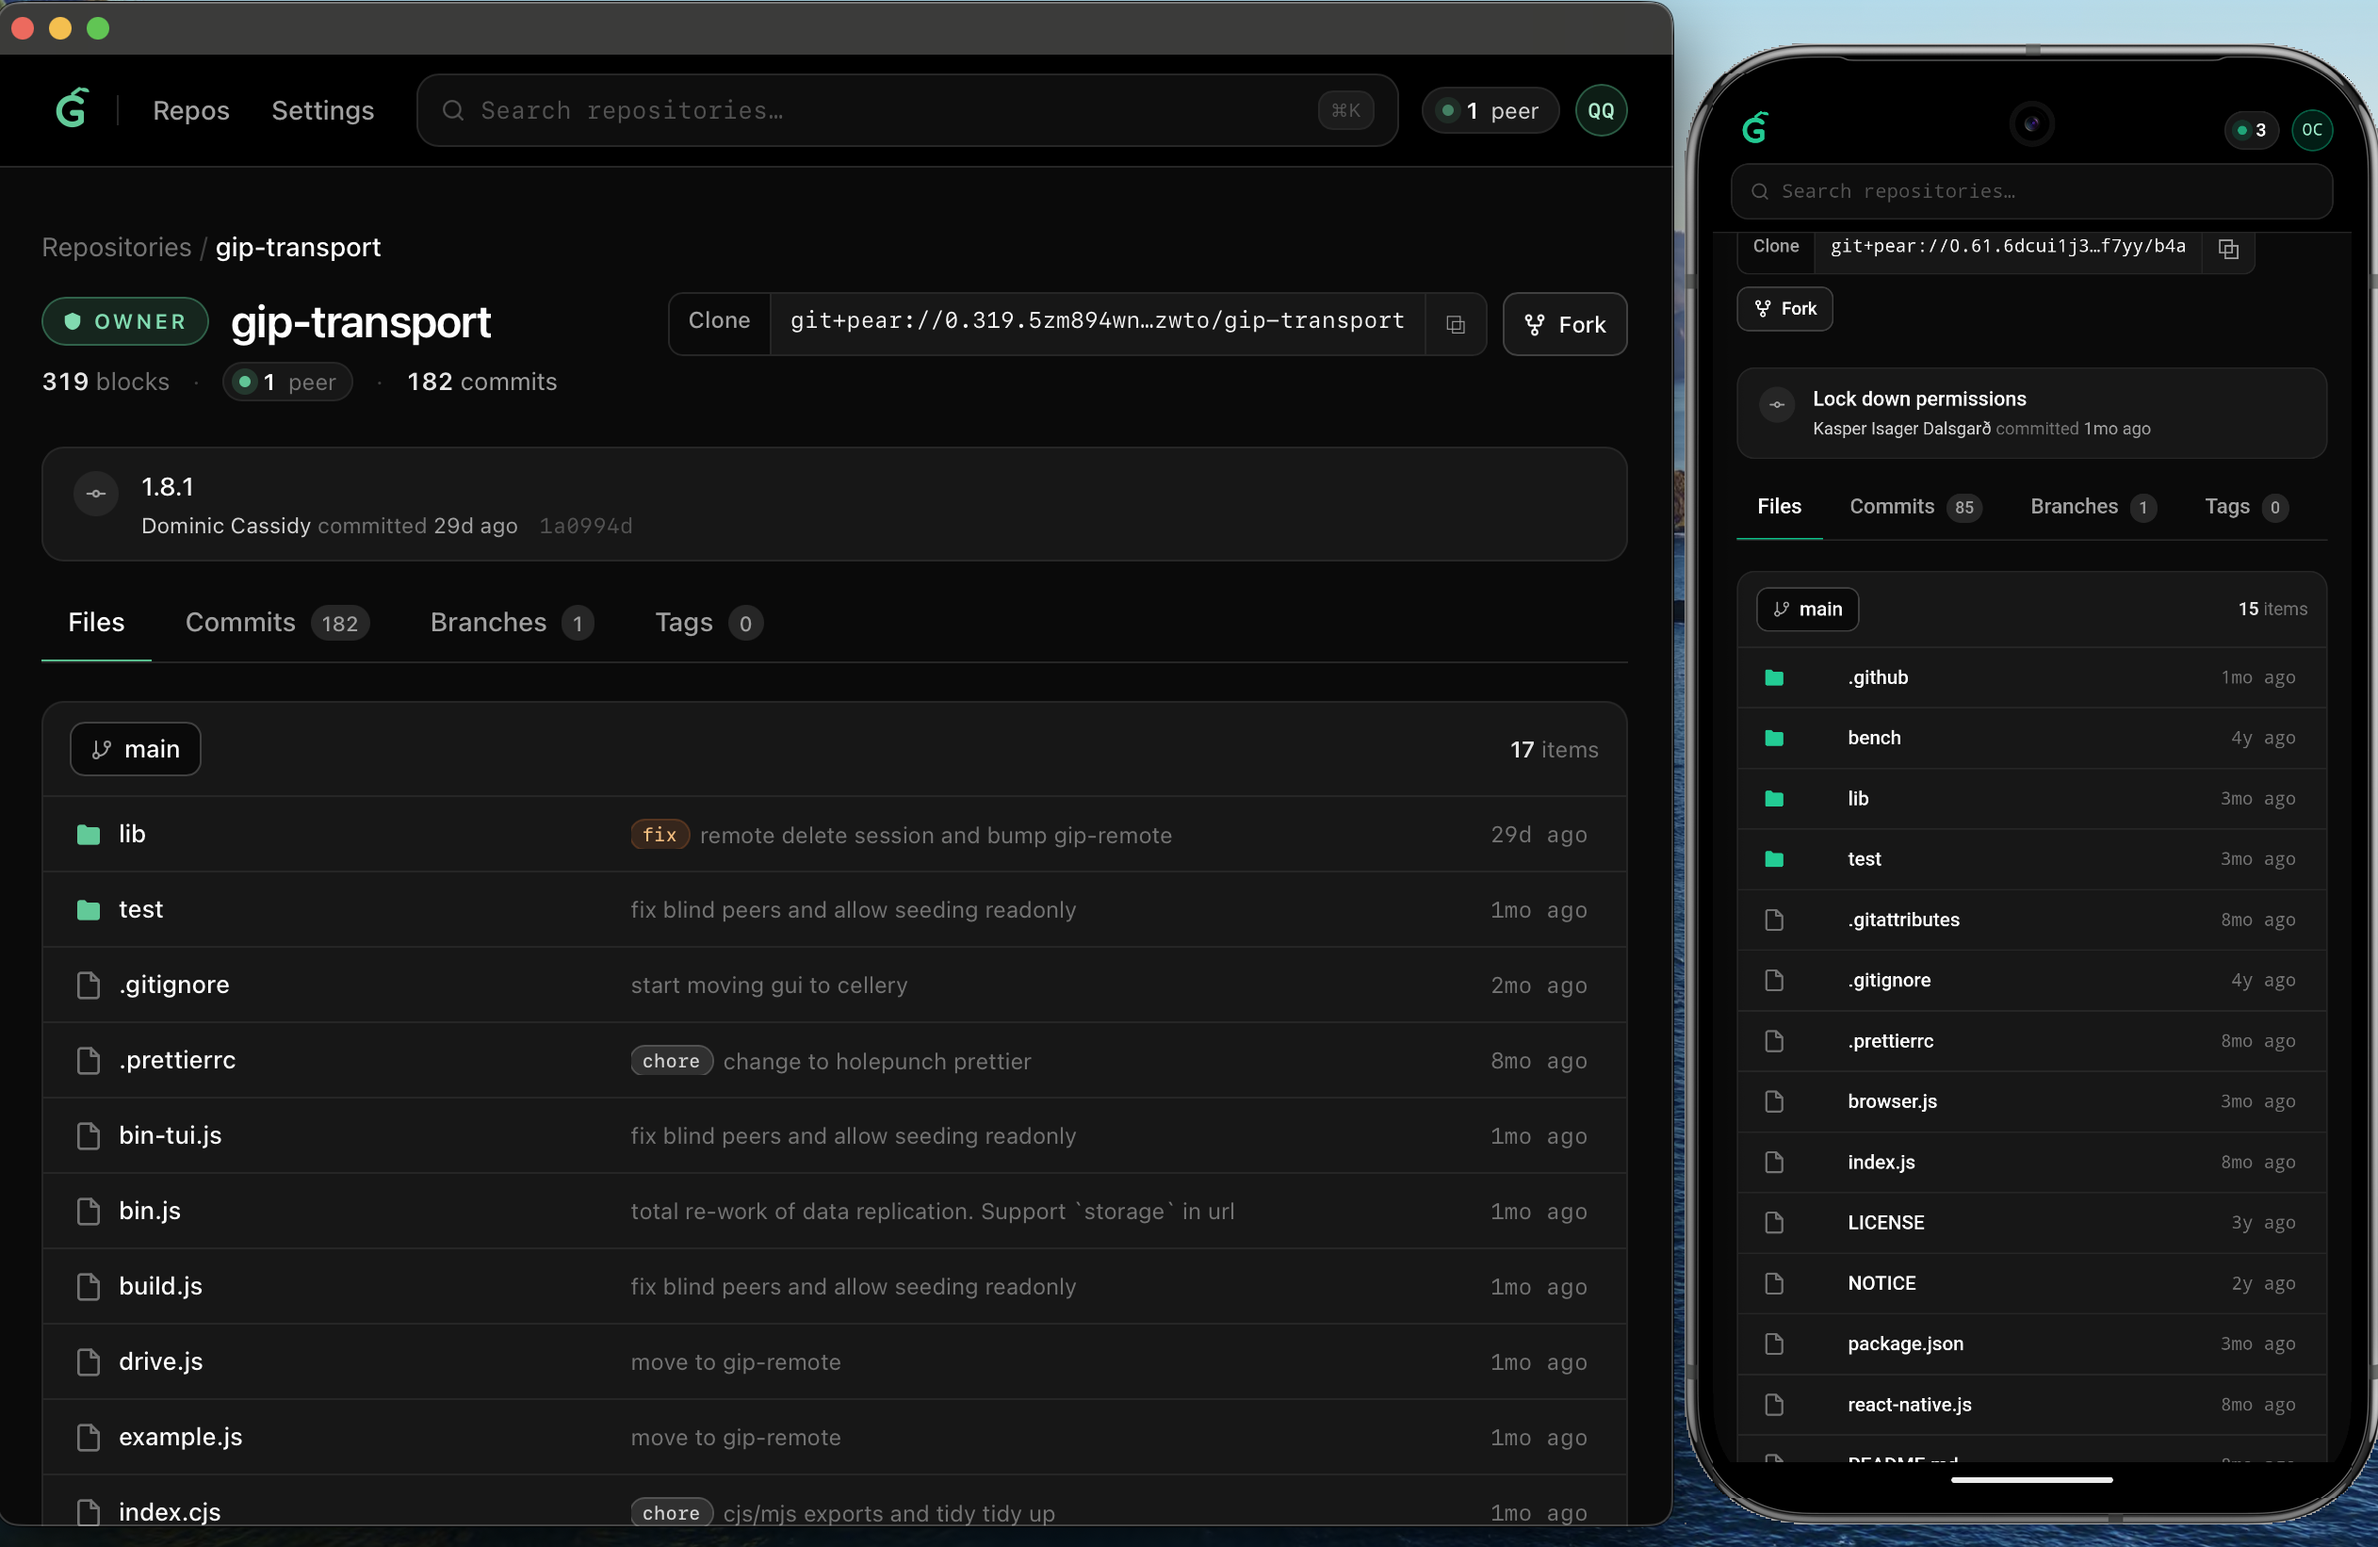
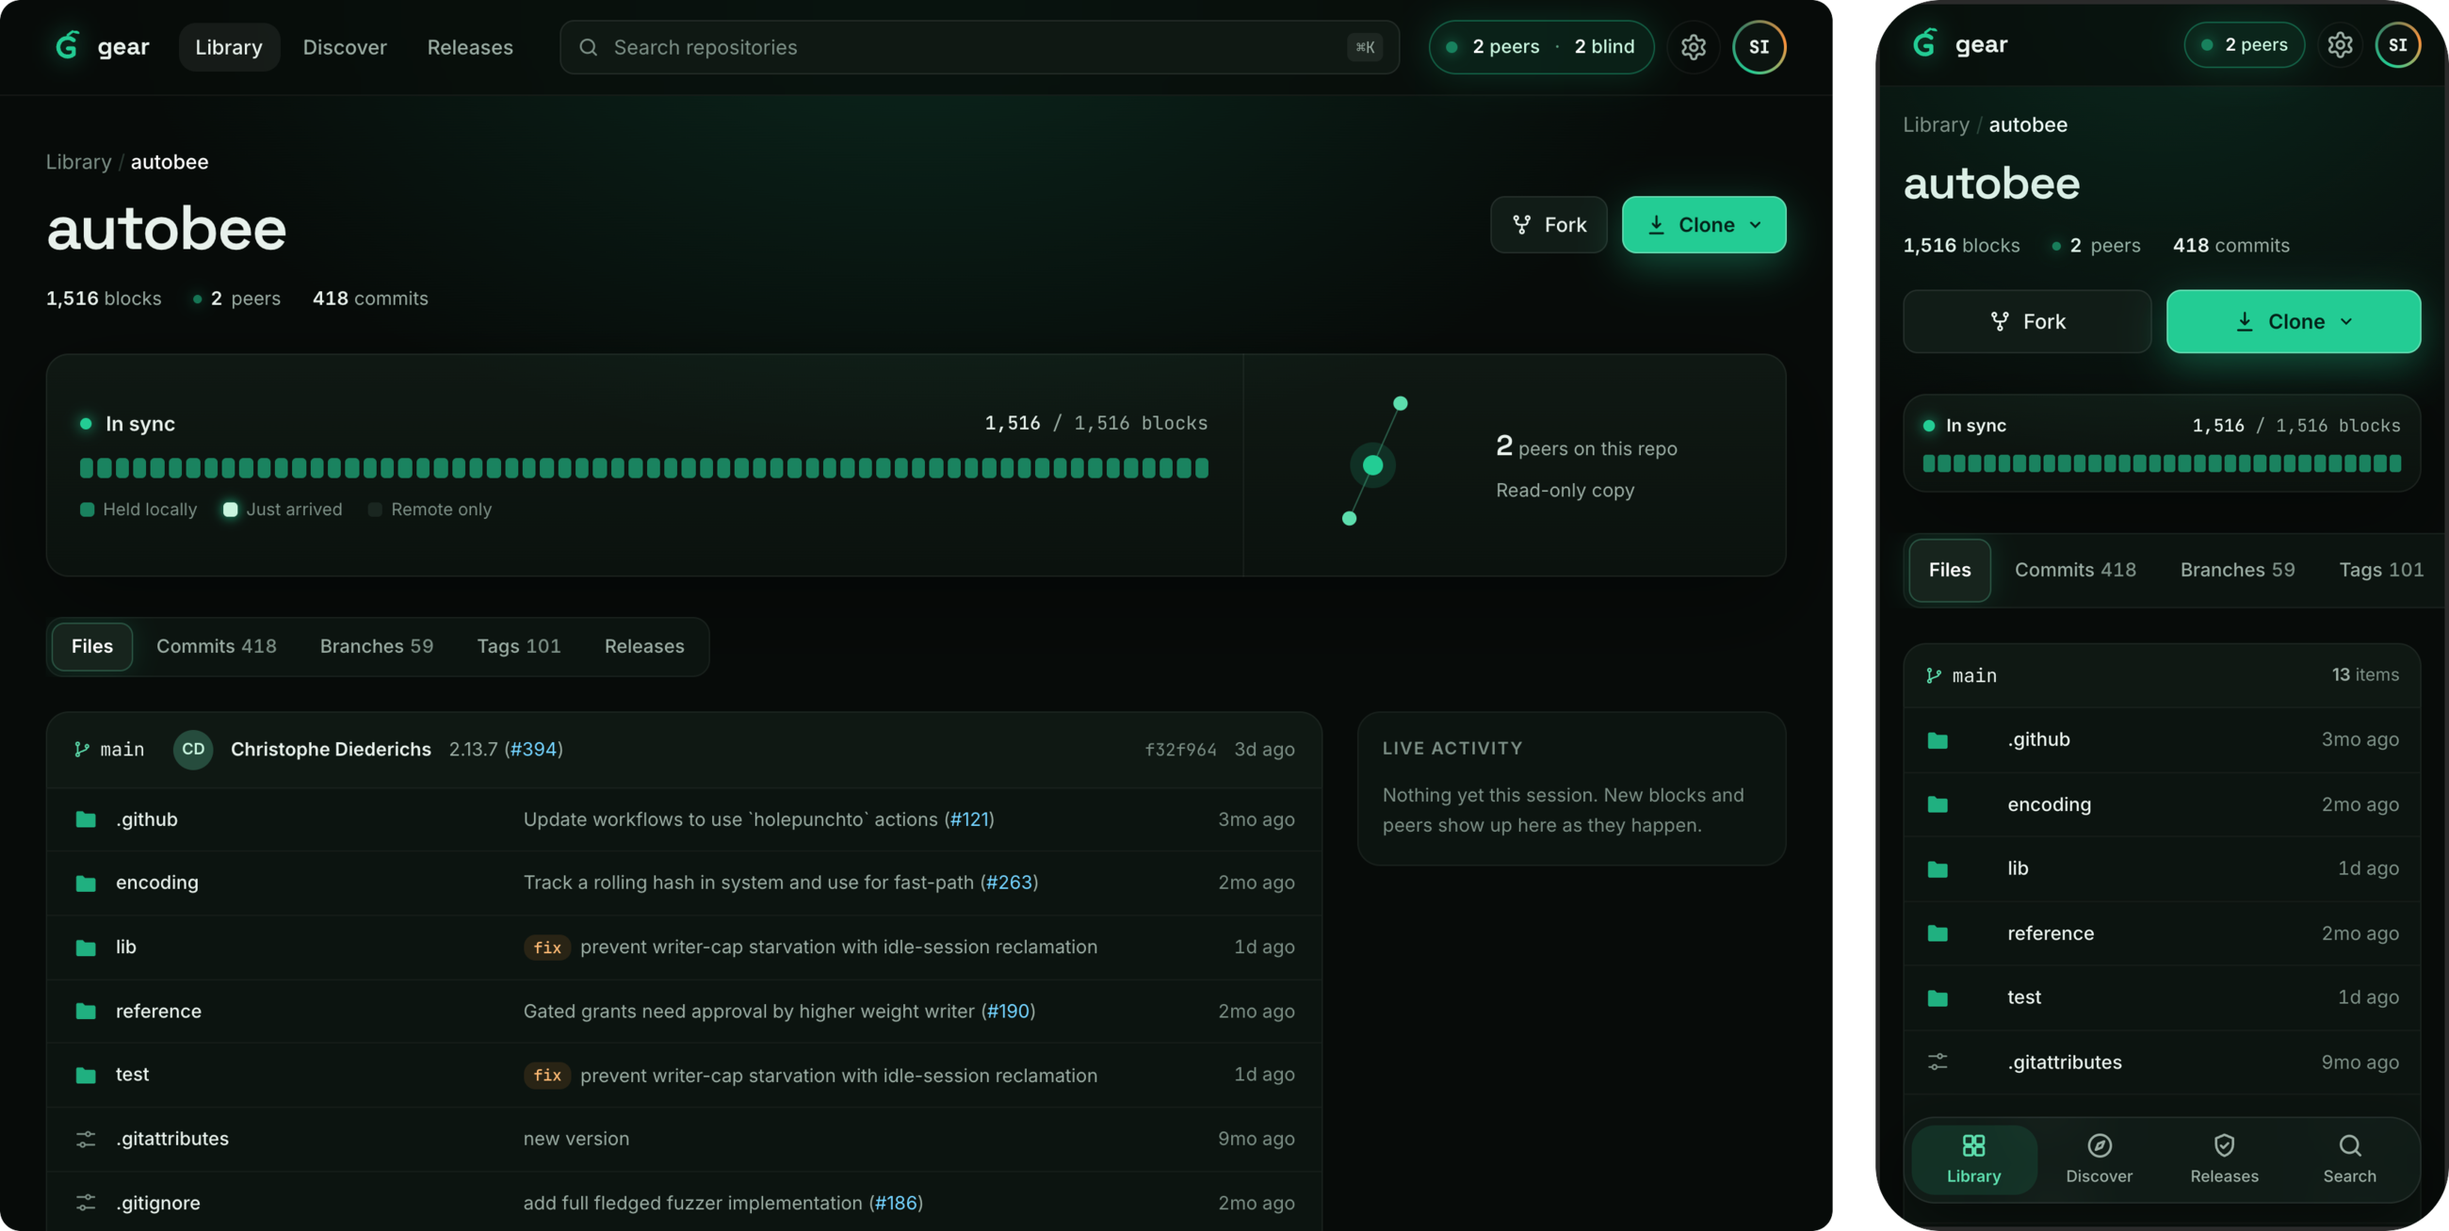
docs: refresh README screenshots (#75)

diff --git a/README.md b/README.md
@@ -4,6 +4,12 @@ A P2P Git repository manager built on [Pear](https://pears.com) / [Holepunch](ht
 
 ![Gear running on macOS and Android](demo.png)
 
+<p>
+  <img src="screenshots/library.png" alt="Library" width="32%">
+  <img src="screenshots/discover.png" alt="Discover" width="32%">
+  <img src="screenshots/releases.png" alt="Release keys" width="32%">
+</p>
+
 ## Features
 
 - **Browse repositories** — file tree, commits, branches, and tags served directly from Hypercore drives
